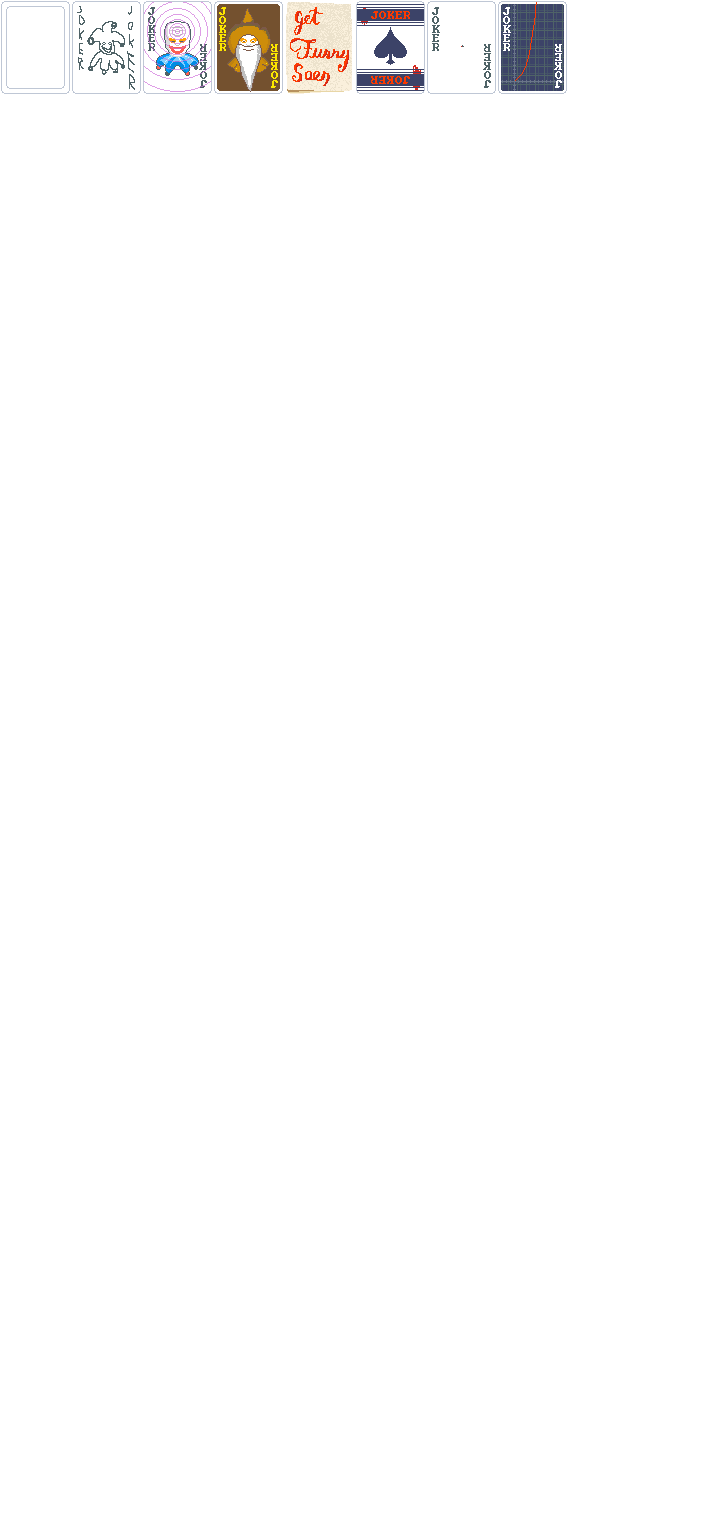
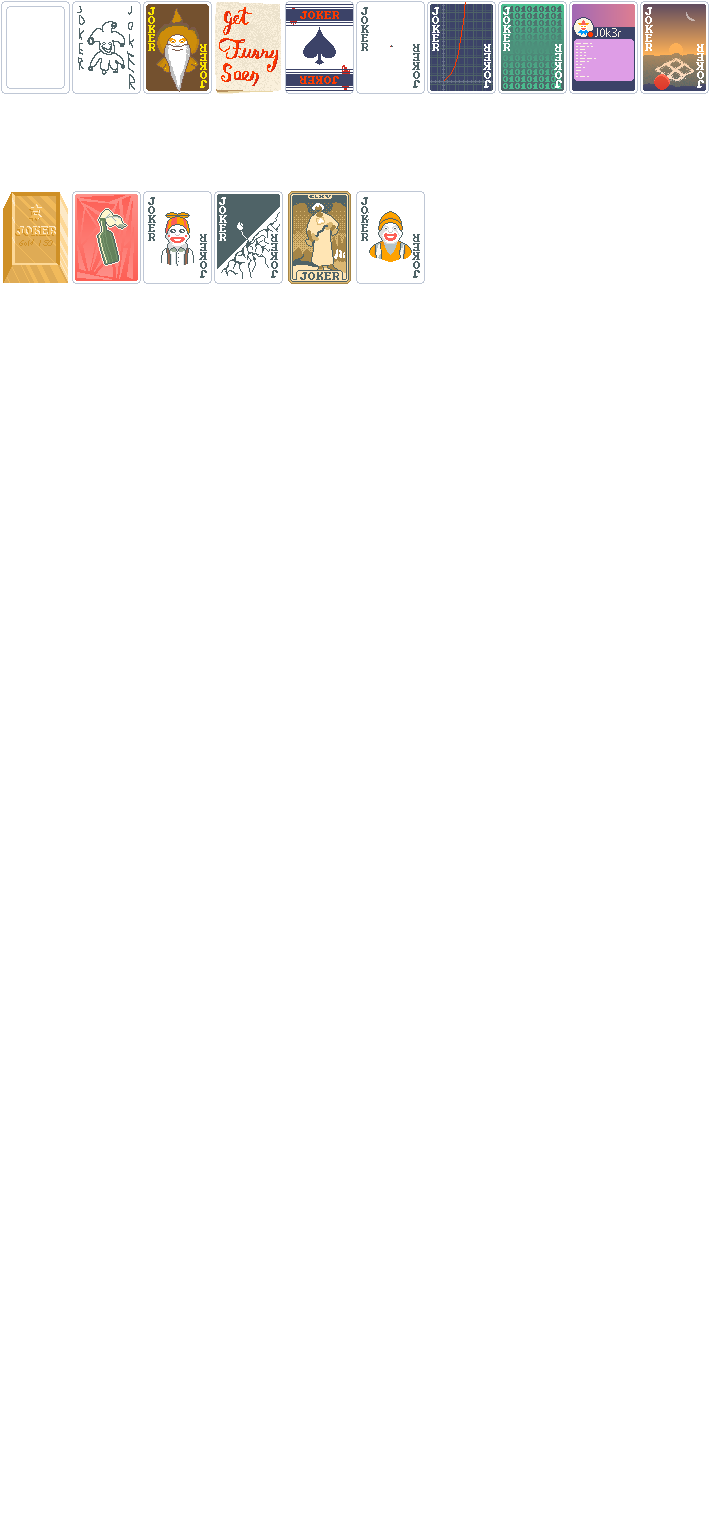
glass deck buff

Changed region(s): [[0.1859, 0.0, 1.0, 0.0618], [0.0, 0.1237, 0.5887, 0.1855]]

diff --git a/README.md b/README.md
@@ -1,0 +1,7 @@
+By Sheer Design is a vanilla-adjacent mod for the popular game Balatro. The main mission of the mod is to add content similar to base Balatro, but with a unique flair of it's own.
+
+As of October 10th, 15 new Jokers and 1 new Deck are included in the mod. All should be unlocked by default.
+
+Please note the early state of the mod. There will be several things that break or otherwise malfunction. As there is only 1 developer on the mod (me) who is not yet familiar with LUA, this is probably unavoidable at times. If anything breaks or otherwise fails to work in your playthrough, don't hesitate to contact me @blitzeyg on Discord.
+
+Have a blast!
